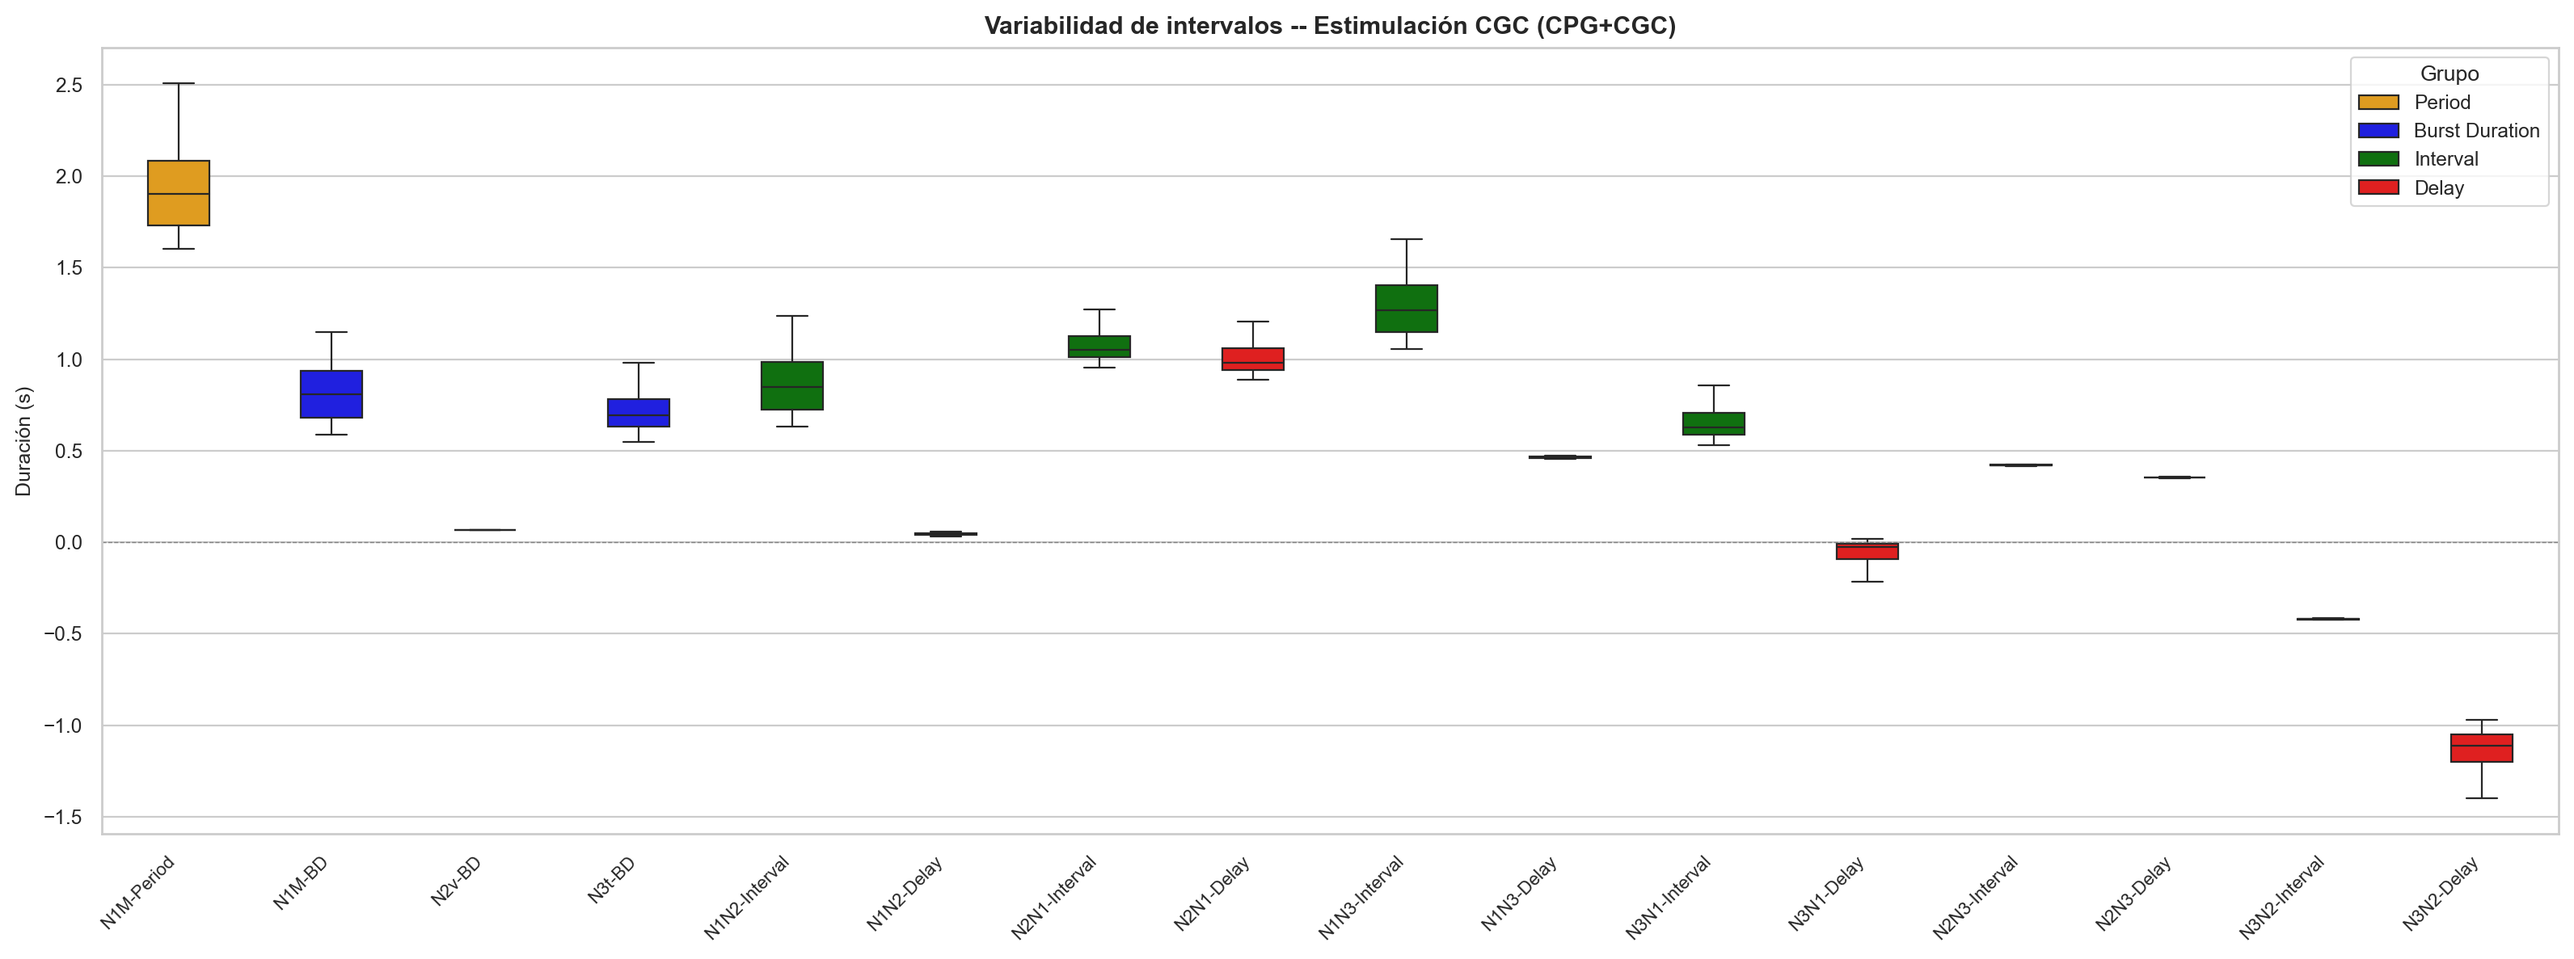
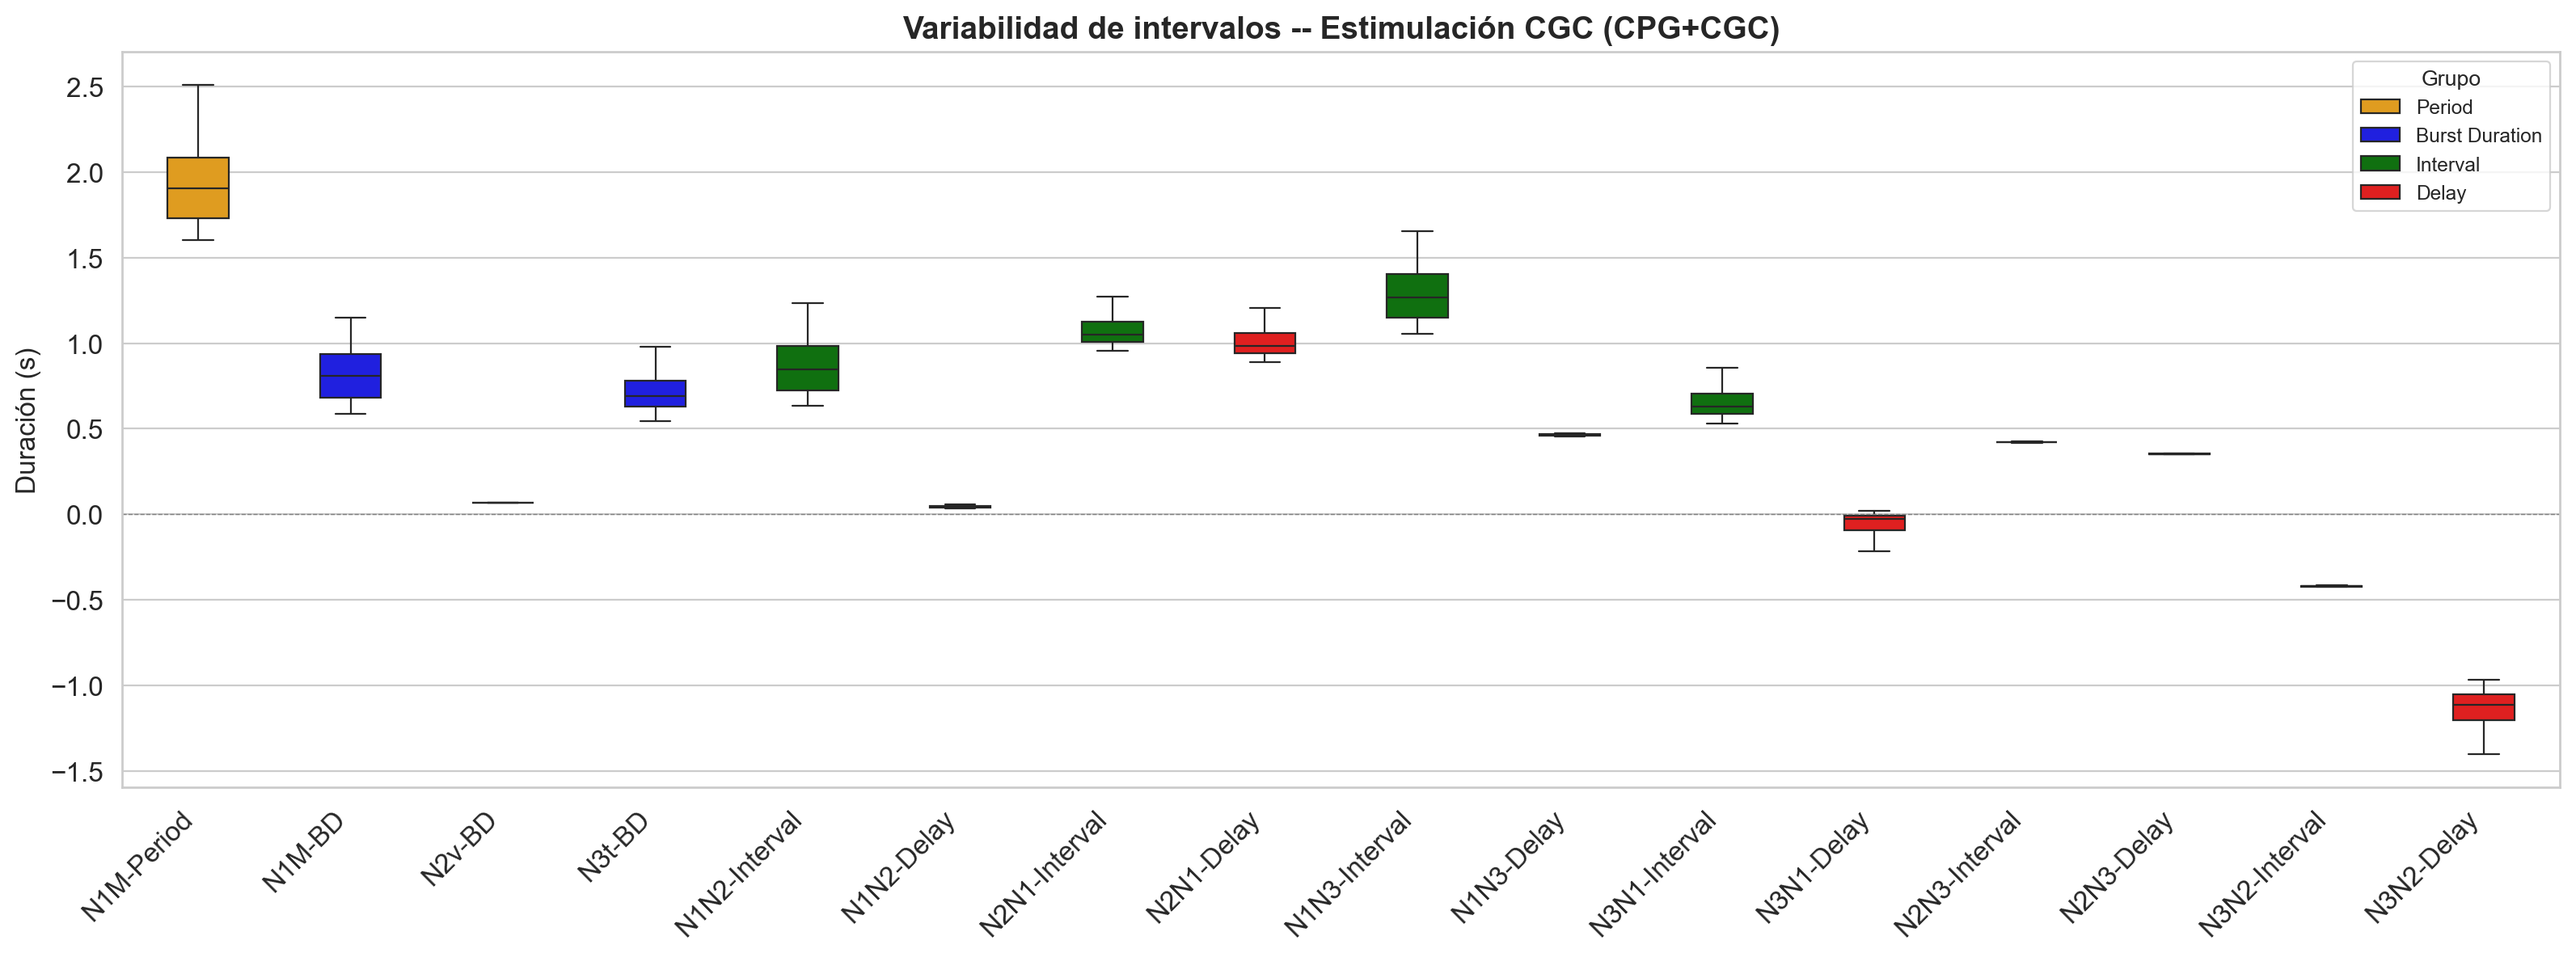
a

diff --git a/grafic.py b/grafic.py
@@ -17,13 +17,13 @@ stride = 100
 
 try:
     import pandas as pd
-    df = pd.read_csv('sim.txt', sep=r'\s+', header=None, usecols=usecols, 
+    df = pd.read_csv('cgc_03.txt', sep=r'\s+', header=None, usecols=usecols, 
                      skiprows=lambda x: x % stride != 0)
     data = df.values
 except ImportError:
     print("Pandas no encontrado, usando lectura línea a línea (puede tomar unos minutos)...")
     parsed_data = []
-    with open('sim.txt', 'r') as f:
+    with open('cgc_03.txt', 'r') as f:
         for i, line in enumerate(f):
             if i % stride == 0:
                 parts = line.split()
@@ -52,7 +52,6 @@ fig, axes = plt.subplots(5, 1, figsize=(15, 13), sharex=True)
 # 1. CGC (Cerebral Giant Cell - Neurona Modulatoria)
 ax0 = axes[0]
 ax0.plot(t_cpg[mask_cpg]/1000, v_cgc_soma_cpg[mask_cpg], 'C1', linewidth=0.8, label=r'$V_S$ CGC')
-ax0.axhline(y=-60, color='gray', linestyle='--', alpha=0.5, label=r'$E_{leak}$')
 ax0.set_ylabel(r'$V_{CGC}$ (mV)')
 ax0.set_title('CGC: Cerebral Giant Cell (Neurona Modulatoria)', fontsize=12, fontweight='bold')
 ax0.legend(loc='upper right', fontsize=8)
@@ -61,7 +60,6 @@ ax0.set_ylim([-90, 60])
 # 2. SO (Modulador de Frecuencia)
 ax1 = axes[1]
 ax1.plot(t_cpg[mask_cpg]/1000, v_so_soma_cpg[mask_cpg], 'purple', linewidth=0.8, label=r'$V_S$ SO')
-ax1.axhline(y=-67, color='gray', linestyle='--', alpha=0.5, label=r'$E_{leak}$')
 ax1.set_ylabel(r'$V_{SO}$ (mV)')
 ax1.set_title('SO: Slow Oscillator (Modulador de Frecuencia)', fontsize=12, fontweight='bold')
 ax1.legend(loc='upper right', fontsize=8)
@@ -70,8 +68,6 @@ ax1.set_ylim([-90, 20])
 # 3. N1M (Fase 1 - Protracción)
 ax2 = axes[2]
 ax2.plot(t_cpg[mask_cpg]/1000, v_n1m_soma_cpg[mask_cpg], 'b', linewidth=0.8, label=r'$V_S$ N1M')
-ax2.axhline(y=-67, color='gray', linestyle='--', alpha=0.5, label=r'$E_{leak}$')
-ax2.axhline(y=-30, color='salmon', linestyle=':', alpha=0.7, label=r'$E_{ACh}$')
 ax2.set_ylabel(r'$V_{N1M}$ (mV)')
 ax2.set_title('N1M: Interneurona de Protracción (Fase P)', fontsize=12, fontweight='bold')
 ax2.legend(loc='upper right', fontsize=8)
@@ -80,8 +76,6 @@ ax2.set_ylim([-90, 20])
 # 4. N2v (Fase 2 - Rasp)
 ax3 = axes[3]
 ax3.plot(t_cpg[mask_cpg]/1000, v_n2v_soma_cpg[mask_cpg], 'r', linewidth=0.8, label=r'$V_S$ N2v')
-ax3.axhline(y=-67, color='gray', linestyle='--', alpha=0.5, label=r'$E_{leak}$')
-ax3.axhline(y=55, color='orange', linestyle=':', alpha=0.7, label=r'$E_{NaL}$')
 ax3.set_ylabel(r'$V_{N2v}$ (mV)')
 ax3.set_title('N2v: Interneurona de Rasp (Fase R)', fontsize=12, fontweight='bold')
 ax3.legend(loc='upper right', fontsize=8)
@@ -90,32 +84,22 @@ ax3.set_ylim([-80, 60])
 # 5. N3t (Fase 3 - Swallow)
 ax4 = axes[4]
 ax4.plot(t_cpg[mask_cpg]/1000, v_n3t_soma_cpg[mask_cpg], 'g', linewidth=0.8, label=r'$V_S$ N3t')
-ax4.axhline(y=-67, color='gray', linestyle='--', alpha=0.5, label=r'$E_{leak}$')
-ax4.axhline(y=80, color='brown', linestyle=':', alpha=0.7, label=r'$E_{Ca}$')
 ax4.set_ylabel(r'$V_{N3t}$ (mV)')
 ax4.set_title('N3t: Interneurona de Swallow (Fase S)', fontsize=12, fontweight='bold')
 ax4.legend(loc='upper right', fontsize=8)
 ax4.set_ylim([-90, 100])
-ax4.set_xlim([-2, t_max_plot_cpg/1000])
+ax4.set_xlim([0, t_max_plot_cpg/1000])
 
-# Marcas de tiempo de la simulación (según cpg_cgc.cpp)
-t_stim_start = 100 / 1000   # 0.1 s
-t_stim_end = 45000 / 1000   # 45.0 s
-
-for ax in axes:
-    ax.axvline(x=t_stim_start, color='k', linestyle='--', alpha=0.4)
-    ax.axvline(x=t_stim_end, color='k', linestyle='--', alpha=0.4)
-
-# Etiqueta para la leyenda en el primer subplot
-axes[0].axvline(x=t_stim_start, color='k', linestyle='--', alpha=0.4, label='Estimulación')
-axes[0].legend(loc='upper right', fontsize=8)
-
-# Configurar marcas explícitas en el eje X cada 5 segundos
-ticks = np.arange(0, (t_max_plot_cpg/1000) + 1, 5)
+# Intervalo de ticks adaptativo: ~6-10 marcas independientemente de la duración
+t_max_s = t_max_plot_cpg / 1000
+nice_intervals = [0.5, 1, 2, 5, 10, 15, 20, 30, 60, 120, 300]
+tick_interval = next(iv for iv in nice_intervals if t_max_s / iv <= 10)
+ticks = np.arange(0, t_max_s + tick_interval, tick_interval)
 
 for ax in axes:
     ax.set_xticks(ticks)
     ax.tick_params(labelbottom=True)
+    ax.grid(True, alpha=0.3)
 
 ax4.set_xlabel('Tiempo (s)', fontsize=12, fontweight='bold')
 

diff --git a/spike_count.py b/spike_count.py
@@ -1,0 +1,69 @@
+import numpy as np
+import sys
+
+FILE        = 'cgc_1.txt'   # archivo de datos
+V_COL       = 9             # columna del voltaje CGC (0-indexed en el archivo raw)
+THRESHOLD   = 0.0           # mV — umbral de detección de spike
+REFRACTORY  = 5.0           # ms — periodo refractario mínimo entre spikes
+
+if len(sys.argv) > 1:
+    FILE = sys.argv[1]
+
+print(f"Leyendo '{FILE}', columna V_CGC = {V_COL}...")
+
+data = np.loadtxt(FILE, usecols=[0, V_COL])
+t_ms = data[:, 0]   # tiempo en ms
+v    = data[:, 1]   # voltaje CGC en mV
+
+# Detección de spikes: cruce ascendente del umbral con periodo refractario
+above      = v >= THRESHOLD
+crossings  = np.where(~above[:-1] & above[1:])[0] + 1
+
+spike_times = []
+last_spike  = -np.inf
+for idx in crossings:
+    t = t_ms[idx]
+    if t - last_spike >= REFRACTORY:
+        spike_times.append(t)
+        last_spike = t
+
+spike_times = np.array(spike_times)
+n_spikes    = len(spike_times)
+
+t_total_min = (t_ms[-1] - t_ms[0]) / 60000.0   # ms -> min
+
+print(f"\nDuración total   : {t_ms[-1]/1000:.1f} s  ({t_total_min:.3f} min)")
+print(f"Spikes detectados: {n_spikes}")
+print(f"Tasa global      : {n_spikes / t_total_min:.1f} spikes/min")
+
+# Tasa por ventanas de 1 minuto (si la simulación es suficientemente larga)
+window_ms = 60_000.0
+t_start   = t_ms[0]
+t_end     = t_ms[-1]
+n_windows = int((t_end - t_start) / window_ms)
+
+if n_windows >= 2:
+    print(f"\nTasa por ventanas de 1 min:")
+    for i in range(n_windows):
+        w0 = t_start + i * window_ms
+        w1 = w0 + window_ms
+        n  = np.sum((spike_times >= w0) & (spike_times < w1))
+        print(f"  [{w0/1000:.0f}s – {w1/1000:.0f}s]  →  {n} spikes/min")
+elif n_spikes > 0:
+    # Ventanas de 10 s para simulaciones cortas
+    window_ms = 10_000.0
+    n_windows = int((t_end - t_start) / window_ms)
+    if n_windows >= 2:
+        print(f"\nTasa por ventanas de 10 s:")
+        for i in range(n_windows):
+            w0  = t_start + i * window_ms
+            w1  = w0 + window_ms
+            n   = np.sum((spike_times >= w0) & (spike_times < w1))
+            rate = n / (window_ms / 60000.0)
+            print(f"  [{w0/1000:.0f}s – {w1/1000:.0f}s]  →  {rate:.1f} spikes/min")
+
+if n_spikes > 1:
+    isis = np.diff(spike_times)          # inter-spike intervals (ms)
+    print(f"\nISI medio : {isis.mean():.1f} ms  →  {60000/isis.mean():.1f} spikes/min instantáneo")
+    print(f"ISI mín   : {isis.min():.1f} ms")
+    print(f"ISI máx   : {isis.max():.1f} ms")

diff --git a/circuitos/cgc_cpg_figuras.cpp b/circuitos/cgc_cpg_figuras.cpp
@@ -318,19 +318,23 @@ int main(int argc, char **argv) {
 
   // PARÁMETROS DE SIMULACIÓN
   const double step = 0.01;              // Paso de integración (ms)
-  const double simulation_time = 30000;  // 100 segundos
+  const double simulation_time = 5000;   // 5 segundos (≈3 ciclos del CPG)
 
-  // Estimulación de SO para activar el CPG (como en Fig. 4C)
+  // Estimulación para activar el CPG
   const double t_stim_start = 100;       // Inicio del estímulo (ms)
-  const double t_stim_end = 29900;        // Estímulo casi continuo
+  const double t_stim_end = 4900;        // Estímulo casi continuo
+
+  // Solo se imprime cada print_every pasos -> reduce el tamaño del fichero
+  const int print_every = 10;
+  int print_counter = 0;
   
   const double I_drive_so = -8.5;       // Corriente despolarizante a SO
   const double I_drive_n1m = -6.0;      // Drive a N1M (más fuerte, es el "líder")
   const double I_drive_n2v = -2.0;      // Drive a N2v (más débil)
   const double I_drive_n3t = 0.0;       // Drive a N3t
-  const double I_drive_cgc = 0.032959;      // Drive a CGC 0.0298 es el minimo
+  // const double I_drive_cgc = 0.032959;      // Drive a CGC 0.0298 es el minimo
   // const double I_drive_cgc = 0.042969;
-  // const double I_drive_cgc = 0.1;
+  const double I_drive_cgc = 0.045;
   // BUCLE DE SIMULACIÓN
   for (double time = 0; time < simulation_time; time += step) {
     
@@ -373,7 +377,10 @@ int main(int argc, char **argv) {
     // I_n1m_n2v(10), I_n2v_n1m(11), I_n1m_n3t(12), I_n3t_n1m(13), I_n2v_n3t(14), I_n2v_so(15), I_so_n1m(16), I_so_n2v(17),
     // I_cgc_n1m(18), I_cgc_n2v(19), I_cgc_so(20), I_cgc_n3t(21),
     // p_N1M(22), p_N2v(23), q_N2v(24), p_N3t(25), q_N3t(26), p_SO(27), h_CGC(28)
-    std::cout << time << " " 
+    print_counter++;
+    if (print_counter < print_every) continue;
+    print_counter = 0;
+    std::cout << time << " "
               // Voltajes (9 valores: 8 del CPG + 1 de CGC)
               << n1m.get(Neuron::v) << " " 
               << n1m.get(Neuron::va) << " "

diff --git a/estudio_invariantes.py b/estudio_invariantes.py
@@ -314,11 +314,13 @@ def plot_boxplots(df, target):
 
     ax.set_title(
         f'Variabilidad de intervalos -- Estimulación {target} (CPG+CGC)',
-        fontweight='bold', fontsize=11
+        fontweight='bold', fontsize=14
     )
-    ax.set_xlabel('')
+    ax.set_xlabel('', fontsize=12)
+    ax.set_ylabel('Duración (s)', fontsize=12)
     ax.axhline(0, color='gray', lw=0.5, ls='--')
-    plt.xticks(rotation=45, ha='right', fontsize=8)
+    plt.xticks(rotation=45, ha='right', fontsize=12)
+    plt.yticks(fontsize=12)
     plt.tight_layout()
 
     path = OUTPUT_DIR / f'boxplots_{target}.png'
@@ -370,29 +372,29 @@ def plot_correlations_pairplot(df, target):
             )
 
             lbl = LABELS_PRETTY[key]
-            ax.set_title(f'{lbl}  (R²={r2:.3f}, m={slope:.3f})', fontsize=8)
-            ax.tick_params(labelsize=7)
+            ax.set_title(f'{lbl}  (R²={r2:.3f}, m={slope:.3f})', fontsize=14)
+            ax.tick_params(labelsize=11)
 
             if i == 4:
-                ax.set_xlabel('Period (s)', fontsize=8)
+                ax.set_xlabel('Period (s)', fontsize=12)
             else:
                 ax.set_xlabel('')
             if j == 0:
-                ax.set_ylabel(f'{rtitle} (s)', fontsize=8)
+                ax.set_ylabel(f'{rtitle} (s)', fontsize=12)
             else:
                 ax.set_ylabel('')
 
             ax.annotate(
                 f'R²={r2:.3f}\nm={slope:.3f}',
                 xy=(0.05, 0.95), xycoords='axes fraction',
-                fontsize=7, fontweight='bold', va='top', ha='left',
+                fontsize=16, fontweight='bold', va='top', ha='left',
                 bbox=dict(boxstyle='round,pad=0.3', facecolor='white',
                           edgecolor='gray', alpha=0.85),
             )
 
     fig.suptitle(
         f'Invariantes Dinamicos -- Estimulacion {target} (CPG+CGC)',
-        fontsize=12, fontweight='bold', y=0.995
+        fontsize=18, fontweight='bold', y=0.995
     )
     plt.tight_layout(rect=[0, 0, 1, 0.98])
 
